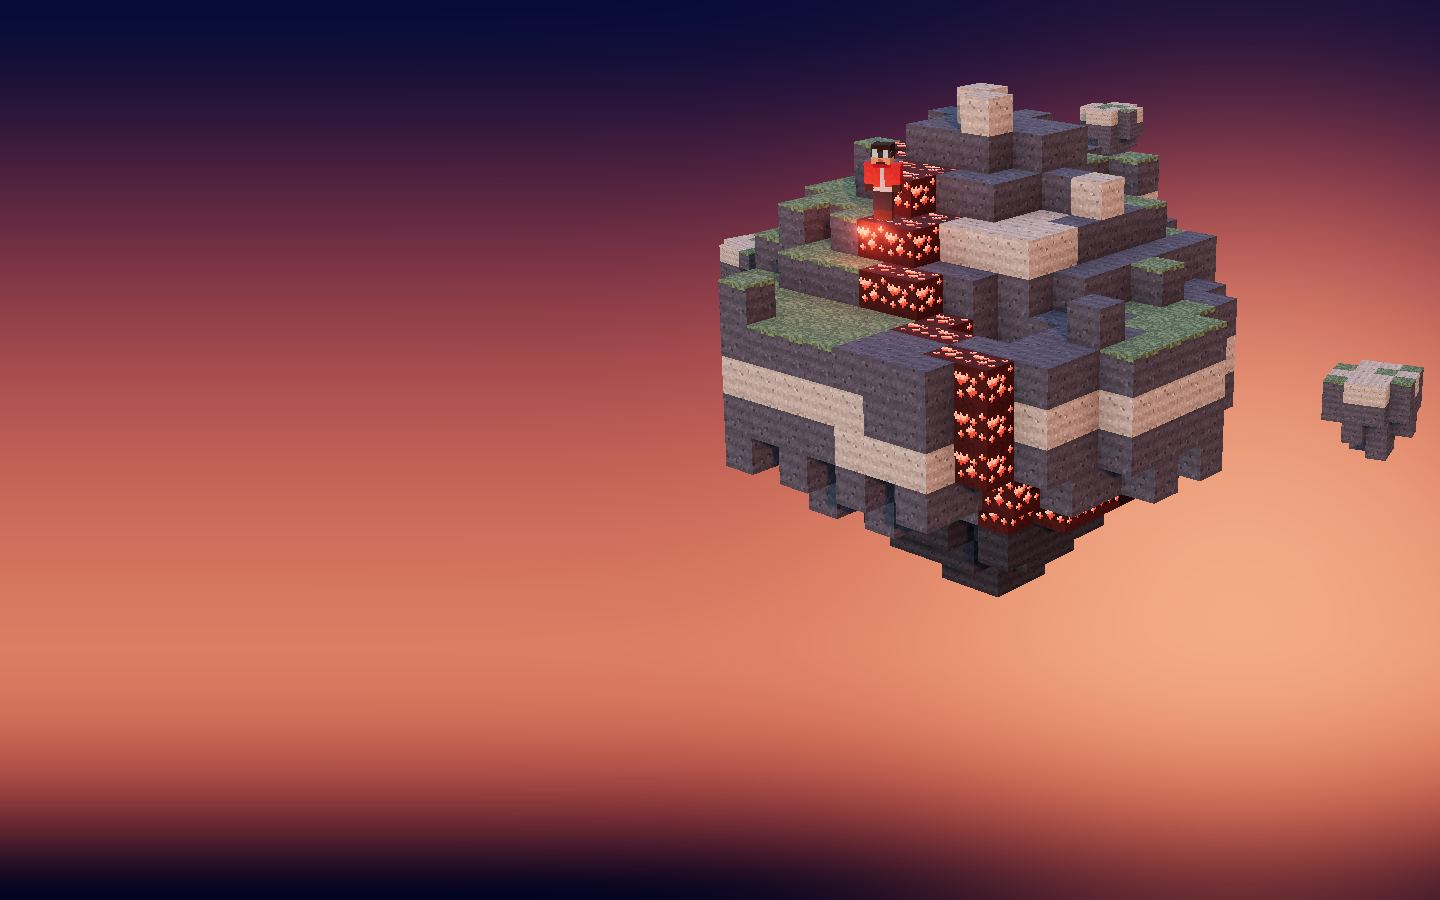
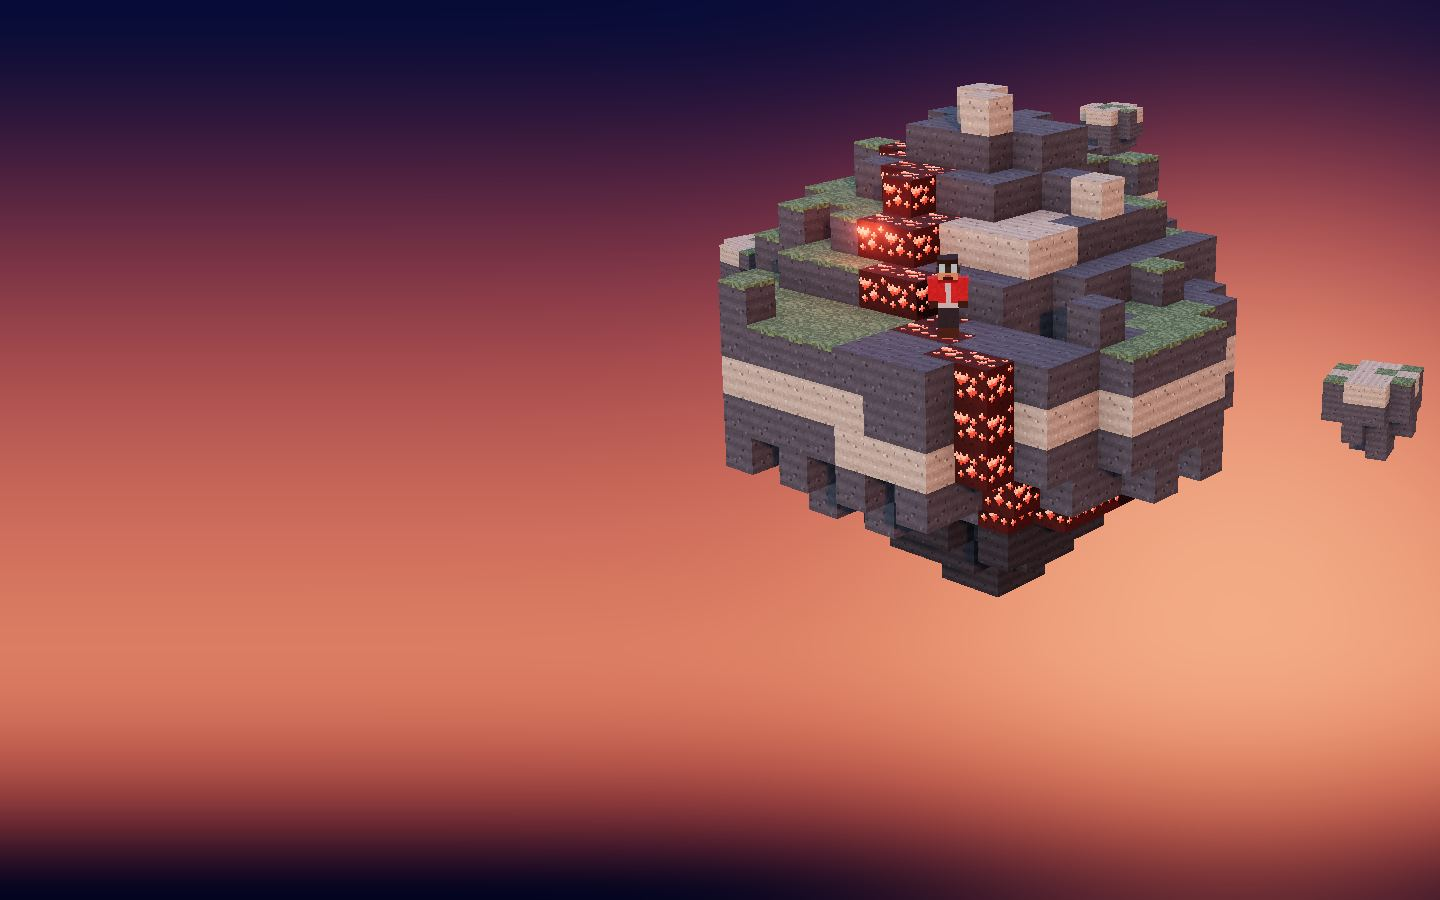
Bring the player forward and add stars to the diorama
The player now stands mid-island on the vein facing the camera, stone
noise is calmer, dusk and night skies get stars, and the no-WebGL still is
re-rendered from the updated scene.

Changed region(s): [[0.625, 0.28, 0.75, 0.4044], [0.5938, 0.1556, 0.625, 0.2489]]

diff --git a/crates/desktop-launcher/ui/src/lib/diorama/scene.ts b/crates/desktop-launcher/ui/src/lib/diorama/scene.ts
@@ -186,9 +186,10 @@ export function createDiorama(canvas: HTMLCanvasElement, options: DioramaOptions
   scene.add(pool);
 
   const player = buildPlayer(options.skin ?? mockSkin());
-  const stand = [Math.round(half - 3), Math.round(half + 1)] as const;
+  // The player stands on a front terrace beside the mercury pool, turned toward the camera.
+  const stand = [world.pool[0] - 1, world.pool[1] + 3] as const;
   player.root.position.set(stand[0] + 0.5 - half, world.top(stand[0], stand[1]) + 1, stand[1] + 0.5 - half);
-  player.root.rotation.y = 0.5;
+  player.root.rotation.y = 0.75;
   scene.add(player.root);
 
   // Warm light pooled above the vein so nearby faces pick up its colour.
@@ -208,6 +209,18 @@ export function createDiorama(canvas: HTMLCanvasElement, options: DioramaOptions
   embersGeo.setAttribute('position', new BufferAttribute(emberPos, 3));
   const embers = new Points(embersGeo, new PointsMaterial({ color: 0xff7a55, size: 0.09, transparent: true, opacity: 0.9, blending: AdditiveBlending, depthWrite: false }));
   scene.add(embers);
+
+  // Stars for dusk and night: fixed points on a far shell, faded in by the mood.
+  const starPos = new Float32Array(500 * 3);
+  for (let i = 0; i < 500; i++) {
+    const u = Math.random() * Math.PI * 2;
+    const v = Math.random() * 0.9 + 0.1;
+    starPos.set([Math.cos(u) * Math.sqrt(1 - v * v) * 150, v * 150, Math.sin(u) * Math.sqrt(1 - v * v) * 150], i * 3);
+  }
+  const starGeo = new BufferGeometry();
+  starGeo.setAttribute('position', new BufferAttribute(starPos, 3));
+  const starMat = new PointsMaterial({ color: 0xdfe6ff, size: 1.4, sizeAttenuation: false, transparent: true, opacity: 0, depthWrite: false, fog: false });
+  scene.add(new Points(starGeo, starMat));
 
   const hemi = new HemisphereLight(0xffffff, 0x222222, 1);
   scene.add(hemi);
@@ -257,6 +270,7 @@ export function createDiorama(canvas: HTMLCanvasElement, options: DioramaOptions
     oreLight.intensity = m.oreLight;
     renderer.toneMappingExposure = m.exposure;
     bloom.strength = m.bloom;
+    starMat.opacity = m.stars;
   }
   applyMood(options.mood);
 

diff --git a/crates/desktop-launcher/ui/src/lib/diorama/mood.ts b/crates/desktop-launcher/ui/src/lib/diorama/mood.ts
@@ -18,28 +18,29 @@ export interface MoodLight {
   oreLight: number;
   exposure: number;
   bloom: number;
+  stars: number;
 }
 
 export const MOODS: Record<Mood, MoodLight> = {
   dawn: {
     skyTop: 0x2c3a6e, horizon: 0xe9a184, sunGlow: 0xffb48a, sun: [-0.55, 0.4, 0.75], sunScreen: [0.2, 0.42],
     hemiSky: 0xb7c3ff, hemiGround: 0x4a3530, hemi: 0.9, key: 0xffc49a, keyIntensity: 2.4,
-    oreGlow: 1.3, oreLight: 3, exposure: 1.05, bloom: 0.45,
+    oreGlow: 1.3, oreLight: 3, exposure: 1.05, bloom: 0.45, stars: 0.15,
   },
   day: {
     skyTop: 0x3f78c4, horizon: 0xbcd4ea, sunGlow: 0xfff1d6, sun: [0.4, 0.85, 0.5], sunScreen: [0.8, 0.95],
     hemiSky: 0xd8e6ff, hemiGround: 0x51473f, hemi: 1.1, key: 0xfff2e0, keyIntensity: 3,
-    oreGlow: 0.9, oreLight: 1.5, exposure: 1, bloom: 0.3,
+    oreGlow: 0.9, oreLight: 1.5, exposure: 1, bloom: 0.3, stars: 0,
   },
   dusk: {
     skyTop: 0x1a1d45, horizon: 0xd8705a, sunGlow: 0xff8a5c, sun: [0.75, 0.38, 0.55], sunScreen: [0.86, 0.4],
     hemiSky: 0x8d8fd6, hemiGround: 0x3a2526, hemi: 0.75, key: 0xff9a6c, keyIntensity: 2.2,
-    oreGlow: 1.6, oreLight: 5, exposure: 1.05, bloom: 0.6,
+    oreGlow: 1.6, oreLight: 5, exposure: 1.05, bloom: 0.6, stars: 0.45,
   },
   night: {
     skyTop: 0x060a1a, horizon: 0x1c2747, sunGlow: 0x6f86c9, sun: [-0.5, 0.7, 0.5], sunScreen: [0.25, 0.85],
     hemiSky: 0x5a6aa8, hemiGround: 0x15121a, hemi: 0.55, key: 0xa9bcff, keyIntensity: 0.8,
-    oreGlow: 2.1, oreLight: 7, exposure: 1.15, bloom: 0.8,
+    oreGlow: 2.1, oreLight: 7, exposure: 1.15, bloom: 0.8, stars: 0.9,
   },
 };
 

diff --git a/crates/desktop-launcher/ui/src/lib/diorama/textures.ts b/crates/desktop-launcher/ui/src/lib/diorama/textures.ts
@@ -35,7 +35,7 @@ function stone(img: ImageData, ox: number, base: Rgb, seed: number, band = 0.06)
   const r = rng(seed);
   for (let y = 0; y < TILE; y++) {
     const strata = 1 + Math.sin(y * 1.3 + seed) * band;
-    for (let x = 0; x < TILE; x++) put(img, ox + x, y, shade(base, strata * (0.9 + r() * 0.16)));
+    for (let x = 0; x < TILE; x++) put(img, ox + x, y, shade(base, strata * (0.93 + r() * 0.1)));
   }
   // A few darker pits and pale flecks so faces read as rock at close range.
   for (let i = 0; i < 7; i++) put(img, ox + Math.floor(r() * TILE), Math.floor(r() * TILE), shade(base, 0.72));

diff --git a/crates/desktop-launcher/ui/src/lib/diorama/world.ts b/crates/desktop-launcher/ui/src/lib/diorama/world.ts
@@ -102,7 +102,7 @@ export function buildWorld(seed = 2026): World {
   ore.sort((a, b) => a[0] + a[2] - (b[0] + b[2]) || b[1] - a[1]);
 
   // Mercury pool: a shallow two-by-two basin on a low terrace in front.
-  const pool: [number, number] = [Math.round(c + 1.5), Math.round(c + 1.5)];
+  const pool: [number, number] = [Math.round(c + 2.5), Math.round(c + 0.5)];
   const poolTop = Math.min(...[0, 1].flatMap((dx) => [0, 1].map((dz) => tops[pool[0] + dx]![pool[1] + dz]!)));
   for (const dx of [0, 1]) {
     for (const dz of [0, 1]) {
